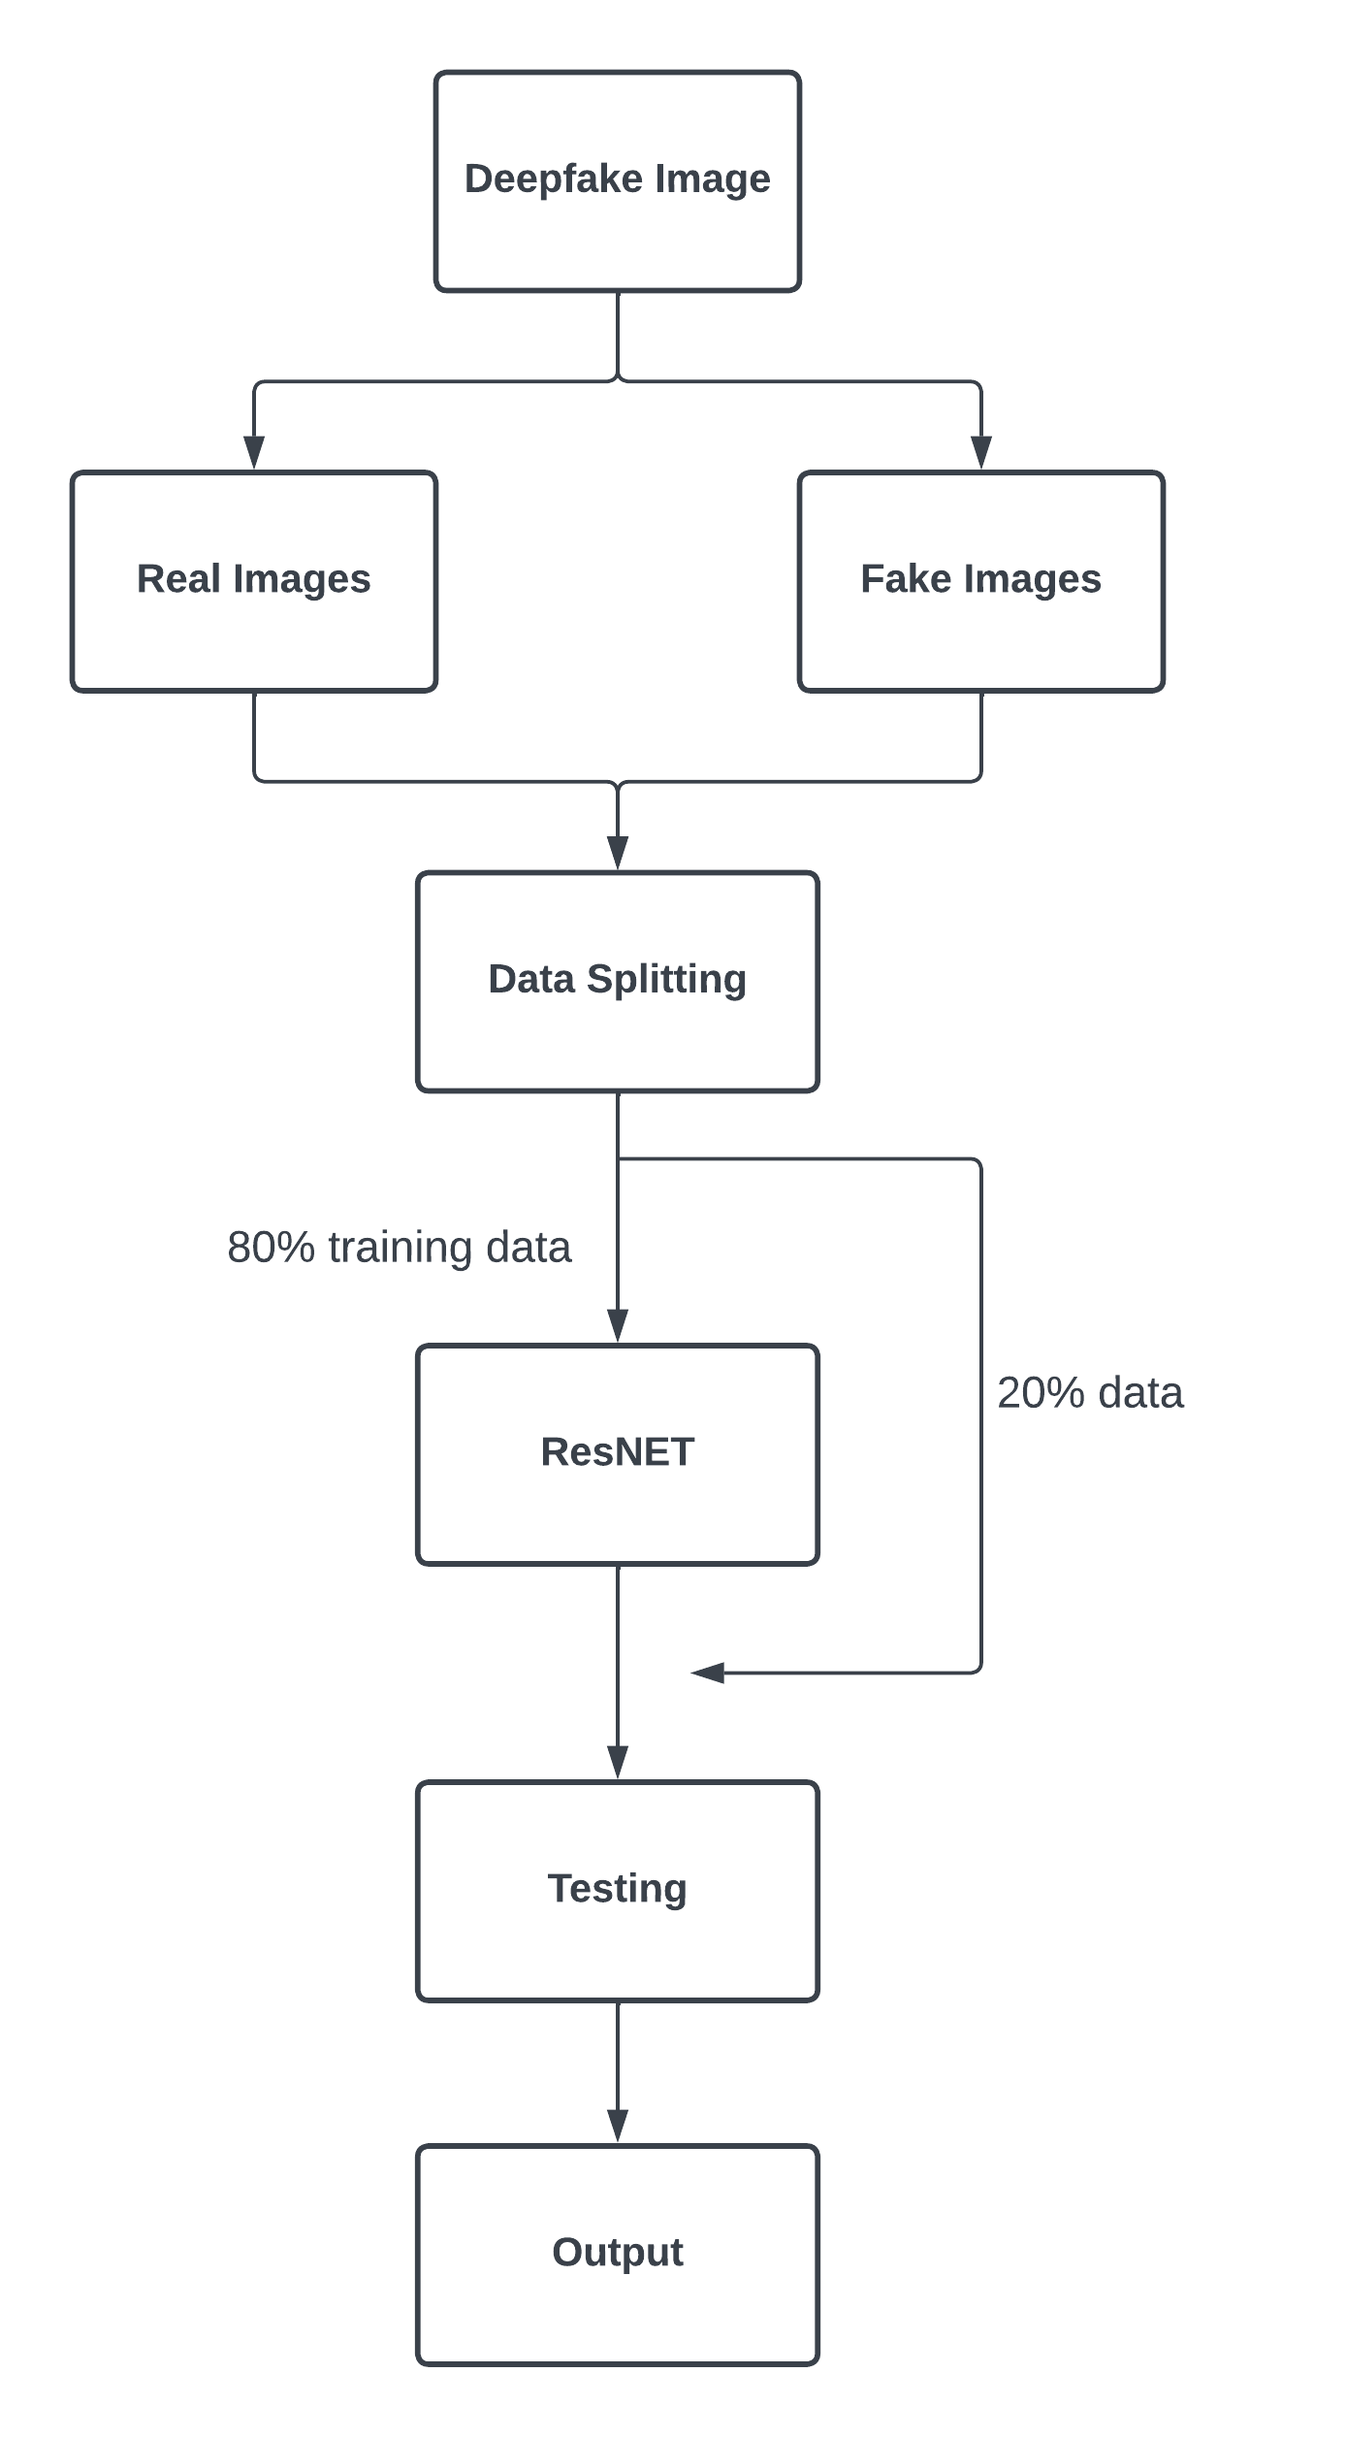
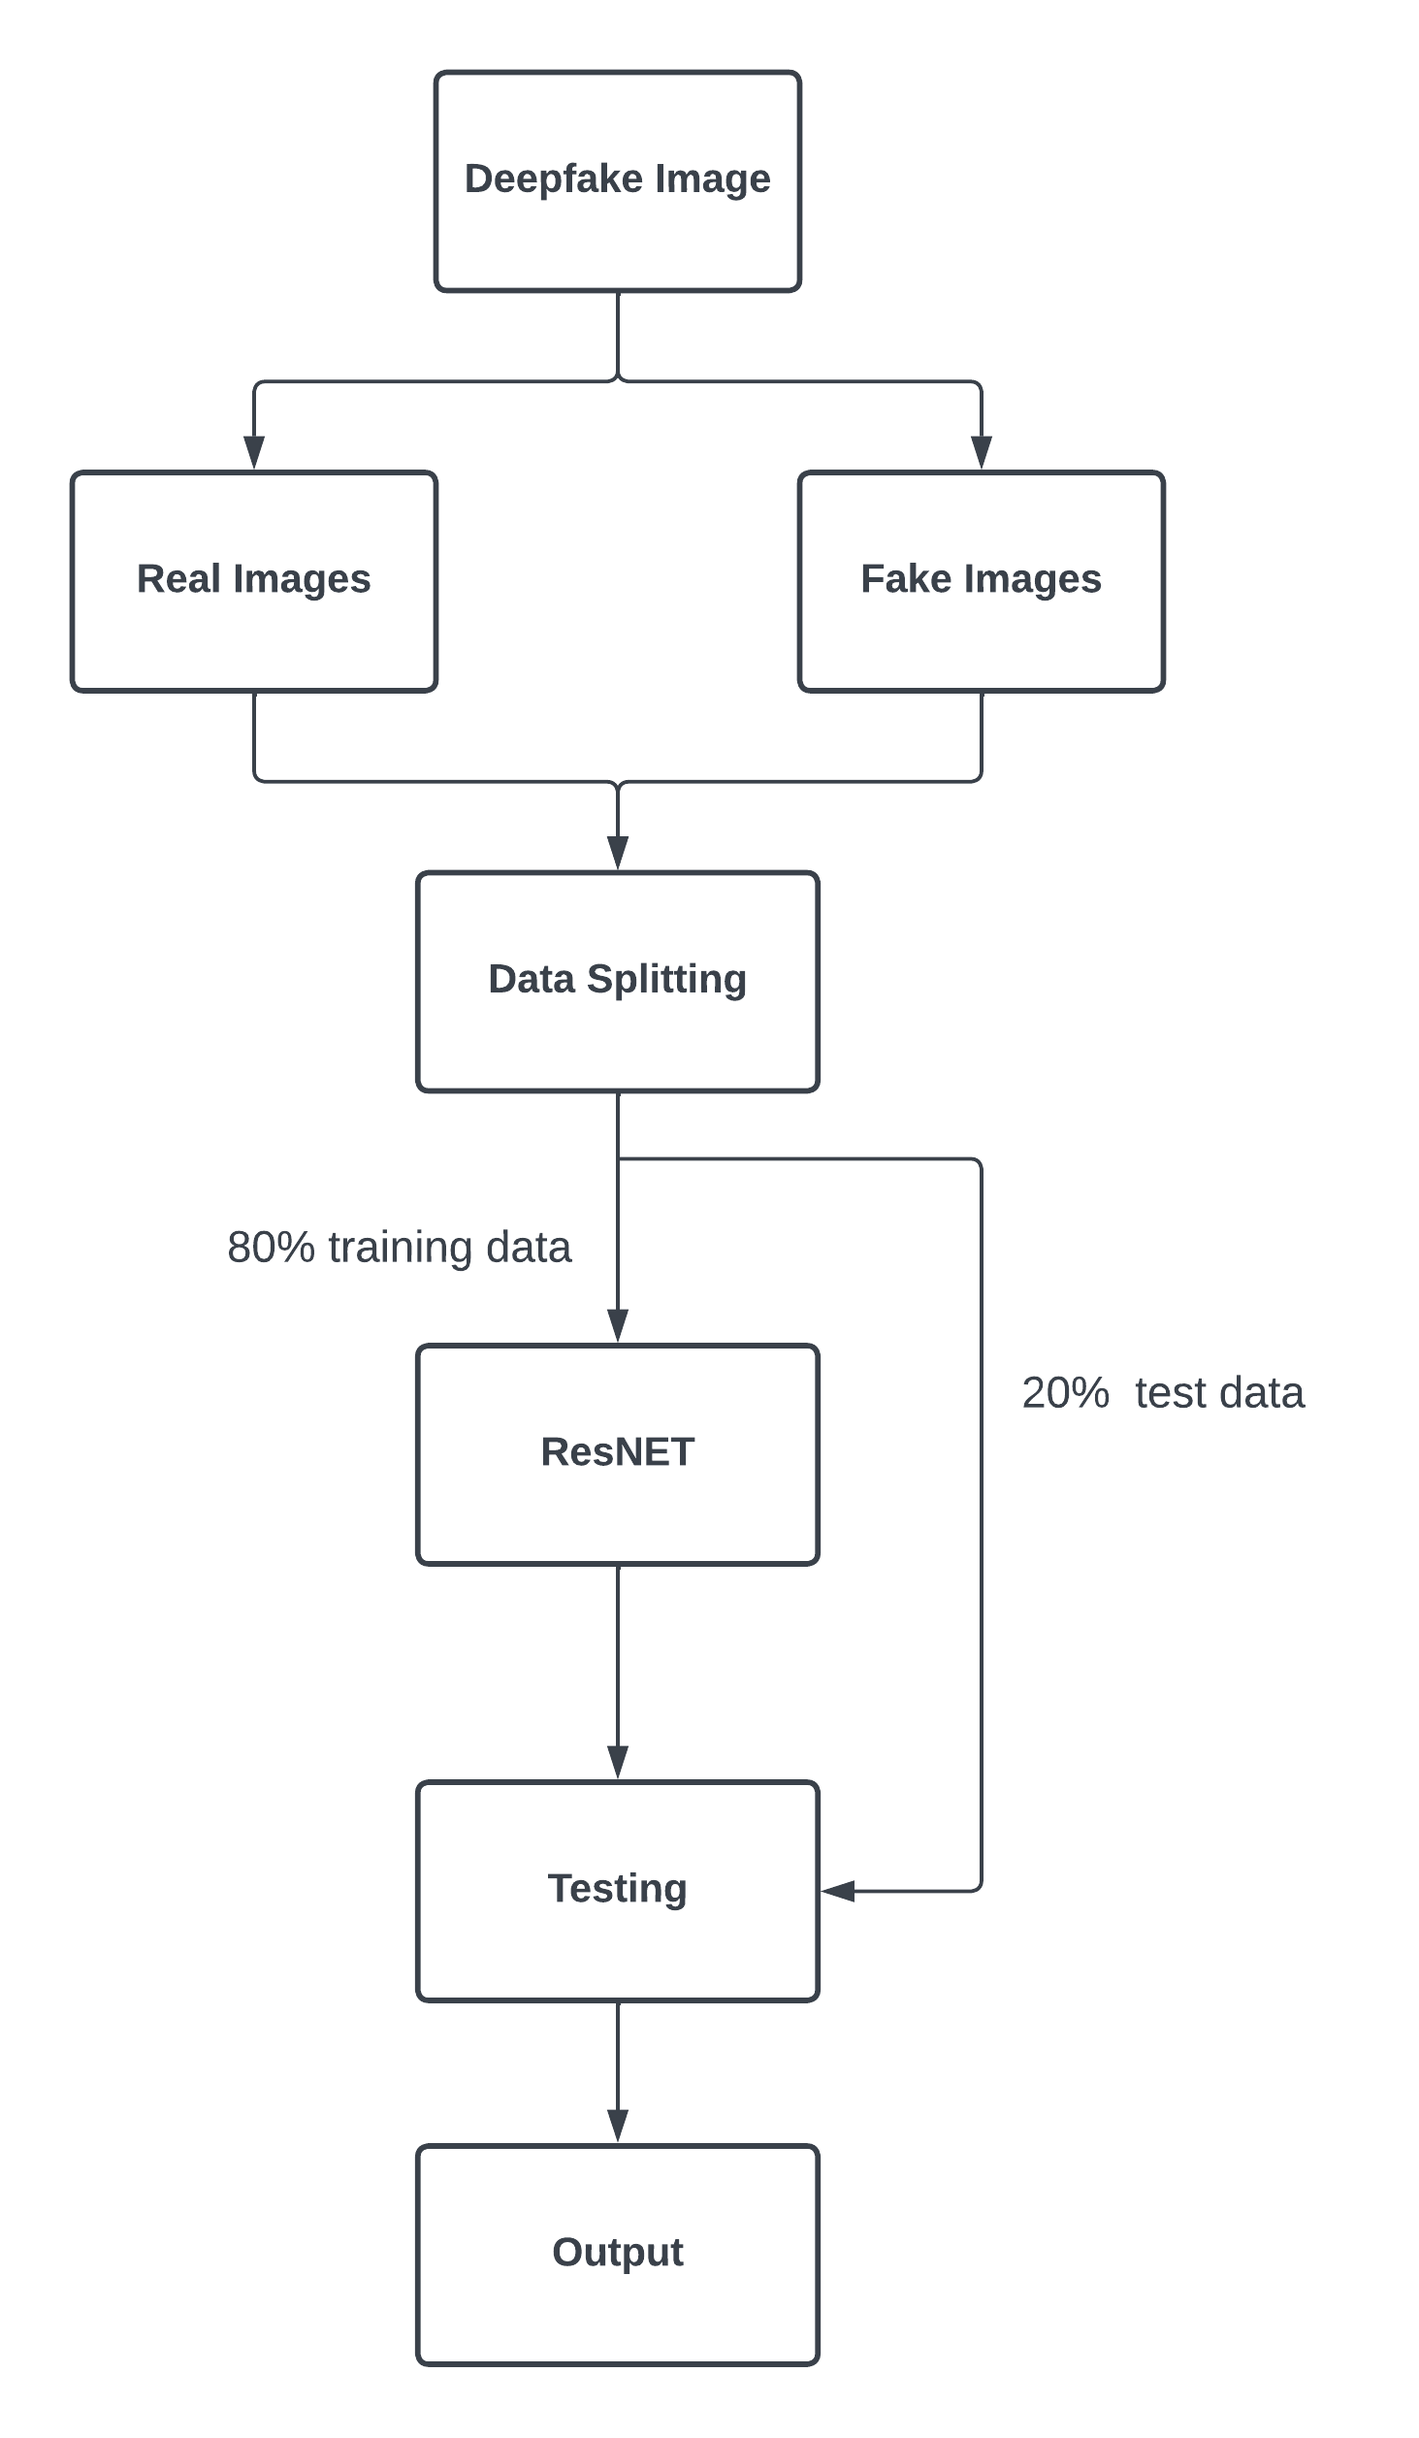
Literature Review Making

diff --git a/chapter/chapter_2.tex b/chapter/chapter_2.tex
@@ -5,24 +5,28 @@ Deepfakes are generally created by techniques based on
 Generative Adversarial Networks (GANs) firstly introduced
 by Goodfellow et al(2014). \cite{goodfellow2014generative}. GANs consist of generators and discriminators.The generator synthesizes a fake image from the given dataset, and the discriminator evaluates the authenticity of the generated image.
 
+
 %  The risks inherent in deepfakes, including defamation of character, potential harm to individuals, and the spread of fake news throughout society, highlight the importance of addressing these challenges.
  
 %  Existing approaches suffer from problems such as inefficiency in deepfake image detection, high error rates, long computation times, and data access inaccuracies.
 %  Our work focuses on improving efficiency through a different approach to using ResNet architecture for deepfake detection.
- Figure 1 shows a compilation of Image Deepfaketechniques'approaches,attributes and features (Heidari et al., 2023)\cite{heidari2023deepfake}.
+There have been many approaches to detect image deepfake. Figure 1 (Heidari et al., 2023) \cite{heidari2023deepfake}  shows some of the advancements in the Image Deepfake techniques.
 
-
+\begin{table}
+\caption{Image Deepfake Techniques}
 \begin{tabularx}{\textwidth}{|X|X|X|X|X|X|}
   \hline
   \textbf{Authors} & \textbf{Main Idea} & \textbf{Advantages} & \textbf{Dataset} & \textbf{Method} \\ \hline
-  Zhang Zhao, and Li (2020) & Using a binary classifier trained by a CNN & The achieved accuracy was 97\%, The AUC stood at 97.6\% & Milborrow University of Cape Town dataset & CNN \\ \hline
-  Lee et al. (2021) & Suggesting an approach with an effective end-to-end false face detection pipeline & Obtaining 72.52\% AUROC, Obtaining 93.99\% accuracy on difficult low-resolution pictures & HFM dataset & GAN \\ \hline
-  Guo et al. (2021) & Providing a preprocessing module named AMTEN for face image forensics & AMTENnet achieves an average accuracy of up to 98.52\%, Achieves desirable preprocessing & HEF dataset & CNN \\ \hline
-  Guamera et al. (2020) & Presenting an expectation-maximization method trained to identify and extract a fingerprint & Obtaining a 93\% accuracy rate, In a real-world scenario, efficacy is demonstrated, High robustness & The FACEAPP, a dataset, and CELEBA images & Expectation-maximization + CNN \\ \hline
-  Ld Yue et al. (2020) & Presenting the MCNet to utilize multi-domain spatial, frequency, and compression domain characteristics & High robustness, High accuracy & ALASKA dataset & CNN \\ \hline
+  Zhang Zhao, and Li (2020) \cite{zhang2020novel} & Using a binary classifier trained by a CNN & The achieved accuracy was 97\%, The AUC stood at 97.6\% & Milborrow University of Cape Town dataset & CNN \\ \hline
+  Lee et al. (2021) \cite{lee2021detecting}& Suggesting an approach with an effective end-to-end false face detection pipeline & Obtaining 72.52\% AUROC, Obtaining 93.99\% accuracy on difficult low-resolution pictures & HFM dataset & GAN \\ \hline
+  Guo et al. (2021) \cite{guo2021fake}& Providing a preprocessing module named AMTEN for face image forensics & AMTENnet achieves an average accuracy of up to 98.52\%, Achieves desirable preprocessing & HEF dataset & CNN \\ \hline
+  Guarnera et al. (2020) \cite{guarnera2020fighting} & Presenting an expectation-maximization method trained to identify and extract a fingerprint & Obtaining a 93\% accuracy rate, In a real-world scenario, efficacy is demonstrated, High robustness & The FACEAPP, a dataset, and CELEBA images & Expectation-maximization + CNN \\ \hline
+  I.-J. Yu et al. (2020) \cite{yu2020manipulation} & Presenting the MCNet to utilize multi-domain spatial, frequency, and compression domain characteristics & High robustness, High accuracy & ALASKA dataset & CNN \\ \hline
 \end{tabularx}
-\begin{tabularx}{\textwidth}{|X|X|X|X|X|X|}
-  \hline
-  I Yang et al. (2021) & Using the image saliency to determine the texture depth and pixel difference between & Detection accuracy is 99.90\% & Faceforensics++ dataset & CNN + simple linear iterative clustering \\ \hline  
-\end{tabularx}
+\end{table}
 
+\newpage
+\begin{tabularx}{\textwidth}{|X|X|X|X|X|X|}\hline
+  J Yang et al. (2021) \cite{yang2021detecting} & Using the image saliency to determine the texture depth and pixel difference between & Detection accuracy is 99.90\% & Faceforensics++ dataset & CNN + simple linear iterative clustering \\ \hline  
+\end{tabularx}
+% \end{table}

diff --git a/chapter/chapter_3.tex b/chapter/chapter_3.tex
@@ -1,20 +1,21 @@
       \chapter{Requirement Analysis}
         \section{SOFTWARE REQUIREMENT}
             Our Deepfake Detection project requires following softwares:
-            \subsection{Python}
-                Python is a general-purpose, high-level programming language. With a strong emphasis on indentation, its design philosophy prioritizes code readability. Python uses garbage collection and dynamic typing. It is compatible with various programming paradigms, such as object-oriented, functional, and structured (especially procedural). It has an extensive standard library.
+            \subsection*{Python} 
+            Python is our primary language for this project, chosen for its versatility and simplicity. All machine learning frameworks are imported using
+            Python, leveraging its dominant position in data science and machine learning. This allows us to seamlessly integrate powerful libraries like TensorFlow and PyTorch for efficient model development.
 
-            \subsection{React}
-                React is a free and open-source front-end JavaScript toolkit for creating component-based user interfaces. It is also referred to as React.js or ReactJS. It is maintained by a group of independent developers and businesses as well as Meta (previously Facebook).
+            \subsection*{TensorFlow}
+            With the help of python and tensorflow, we will use it to train our AI model. Python, combined with TensorFlow, enables us to train our AI model. TensorFlow, which includes a symbolic math library, helps us define and optimize computational graphs-a crucial aspect of our model training process.
 
-            \subsection{FastAPI}
-                A contemporary web framework for creating RESTful Python APIs is called FastAPI. Since its initial release in 2018, its robustness, speed, and ease of use have helped it rapidly acquire favor among developers. Based on Pydantic, FastAPI serializes and deserializes data using type hints for validation. For APIs created with it, OpenAPI documentation is also automatically generated.
+            \subsection*{Keras}
+            Keras is a high level api . Keras contains numerous implementations of commonly used neural-network building blocks such as layers, objects, and a host of tools for working with image and text data to simplify programming in python.
 
-            \subsection{TensorFlow}
-                TensorFlow is a free and open-source software library for machine learning and artificial intelligence. It can be used across a range of tasks but has a particular focus on training and inference of deep neural networks. TensorFlow was developed by the Google Brain team for internal Google use in research and production. TensorFlow can be used in a wide variety of programming languages, including Python, JavaScript, C++, and Java.
+            \subsection*{React}
+            Through React, we can create and manage the user interface components, ensuring a smooth and interactive experience. React, being a JavaScript library, allows us to efficiently build dynamic and responsive UIs, facilitating a user-centric design approach for our project.
 
-            \subsection{Keras}
-                Keras is a high-level, deep learning API developed by Google for implementing neural networks. It is written in Python and is used to make the implementation of neural networks easy. It also supports multiple backend neural network computation. Keras is relatively easy to learn and work with because it provides a python frontend with a high level of abstraction while having the option of multiple back-ends for computation purposes. It supports frameworks like tensorflow.
+            \subsection*{FastAPI}
+            FastAPI is a Python web framework designed for rapid API development.It serves as the primary web framework for building efficient and high-performance APIs for our project.
                 
         \section{FUNCTIONAL REQUIREMENT}
             These are specifications that describe the fundamental capabilities and behaviors a system or product must exhibit to meet the users' needs and achieve its intended purpose. 

diff --git a/chapter/abstract.tex b/chapter/abstract.tex
@@ -1,7 +1,5 @@
 \chapter*{Abstract}
 \addcontentsline{toc}{chapter}{Abstract}
-The rise of deepfake technology, powered by advancements in deep learning, has brought a new phase to digital image manipulation. This project addresses the pressing need for a robust deepfake detection system, focusing on facial features, and employs state-of-the-art ResNet architecture. The primary goal is to develop a deep learning model capable of accurately identifying manipulated digital media content. We have analysed the existing methodologies regarding deepfake technologies and detection. Data collection involves transforming authentic facial images into deepfakes using FaceSwap. We have opted to integrate ResNet architecture into the deepfake detection process, with a specific emphasis on the training and rigorous testing of the model's efficiency. This project aims to contribute to ongoing efforts in mitigating the risks associated with deepfakes, ensuring the integrity of visual content in the era of advanced AI technologies. The proposed ResNet-based deepfake detection model holds promise for enhancing accuracy and efficiency, addressing challenges posed by manipulated images in contemporary digital environments.\\
+The rise of deepfake technology, powered by advancements in deep learning, has brought a new phase to digital image manipulation. This project will address the pressing need for a robust deepfake detection system, focusing on facial features, and employs state-of-the-art ResNet architecture. The primary goal is to develop a deep learning model capable of accurately identifying manipulated facial images. We have analysed the existing methodologies regarding deepfake technologies and detection. For this project, We will be using 140k Real and Fake Images as our images dataset to  train the model. We have opted to integrate ResNet architecture into the deepfake detection process, with a specific emphasis on the training and rigorous testing of the model's efficiency. This project aims to contribute to ongoing efforts in mitigating the risks associated with deepfakes, ensuring the integrity of visual content in the era of advanced AI technologies.\\
 
-
-
-\textbf{Keywords: }Deepfake technology, Deep learning, Digital image manipulation, ResNet architecture, FaceSwap
+\textbf{Keywords: }Deepfake technology, Deep learning, Digital image manipulation, ResNet architecture

diff --git a/chapter/chapter_1.tex b/chapter/chapter_1.tex
@@ -13,17 +13,7 @@
 
 
     \section{Problem Statement}
-        In the rapidly evolving landscape of computing and automation technologies, the scope of possibilities continues to expand.
-        Artificial intelligence (AI) is at the heart of driving unprecedented advances in areas such as predictive analytics, weather forecasting, automation, and the creation of advanced entities such as deepfakes containing AI-generated video, audio, and images.
-        While these technological advances are undoubtedly transformative, the misuse and abuse of such capabilities raise serious concerns.
-
-        Lately, there has been an increase in the creation of deepfakes that manipulate the faces of celebrities and ordinary people using just a single image and advanced deep-learning algorithms.
-        This issue is becoming increasingly important as potentially harmful and illegal images of victims are made public.
-        This rise in false activity not only threatens individual privacy but also has broad implications for public trust and safety.
-        As the credibility of deepfakes increases, the potential for malicious use, misinformation, and reputational damage increases.
-        It is important to address this issue head-on by developing advanced detection mechanisms to protect against the harmful consequences of manipulated images.
-        
-        This proposal aims to contribute to ongoing efforts to reduce the risks associated with deepfakes and enhance the integrity of visual content in the era of advanced AI technologies.
+        Recent trends reveal a surge in the creation of deepfakes that manipulate the facial features of both celebrities and ordinary individuals, utilizing advanced deep-learning algorithms requiring only a single image as input. This alarming issue has escalated, resulting in the public dissemination of potentially harmful and illegal images, posing a severe threat to individual privacy and casting a shadow over public trust and safety. The growing credibility of deepfakes amplifies the risks associated with malicious use, misinformation, and reputational damage.
 
     \section{Objective}
         The main aim of this project is to identify manipulated digital media content, particularly facial features and images using deep learning techniques.

diff --git a/title.tex b/title.tex
@@ -13,7 +13,7 @@
 		\end{figure}
 		
 		\vspace{0.2in}
-		\large{A PROPOSAL ON\\\textbf{DEEPFAKE IMAGE  DETECTION USING ResNet ARCHITECTURE}\\}
+		\large{A PROPOSAL ON\\\textbf{DEEPFAKE IMAGE  DETECTION USING ResNet}\\}
 	
 		\vspace{0.2in}
 		\large{\textit{Submitted in partial fulfillment of the requirements for the degree\\}}

diff --git a/chapter/chapter_5.tex b/chapter/chapter_5.tex
@@ -17,7 +17,7 @@
         \begin{figure}[hbt!]
             \center{
                 \includegraphics[width=0.25 \textheight]{./img/Block Diagram.png}
-                \caption{Methodological Architecture of Our Proposed System}
+                \caption{Block Diagram of Proposed System}
             }
         \end{figure}
 
